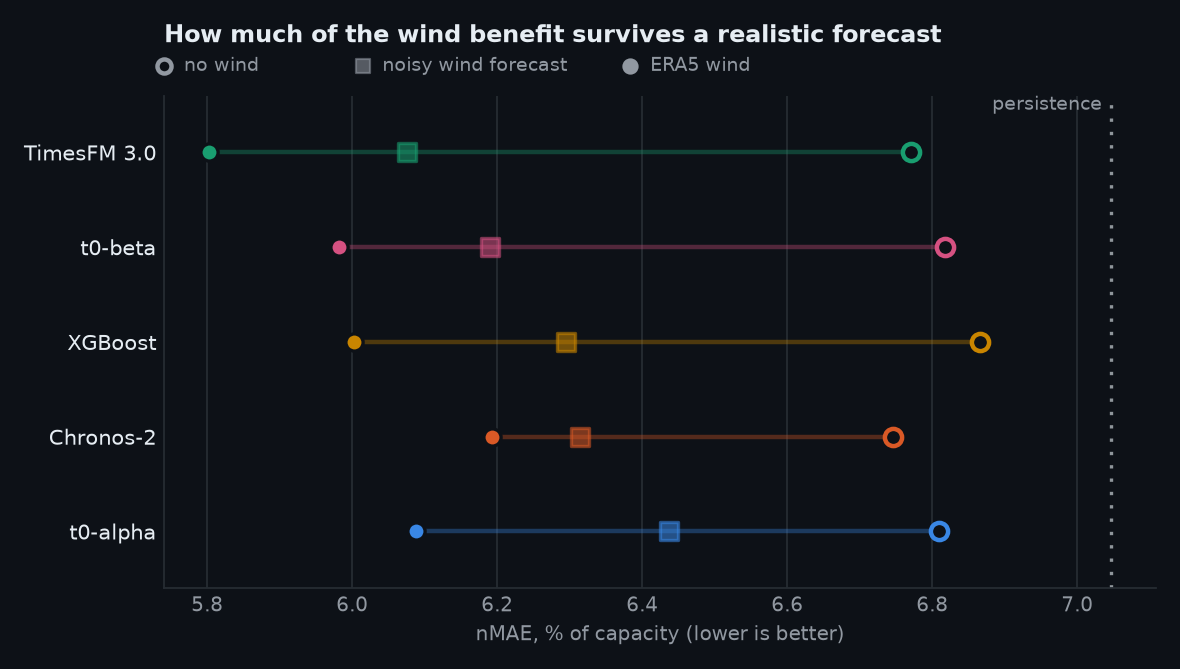
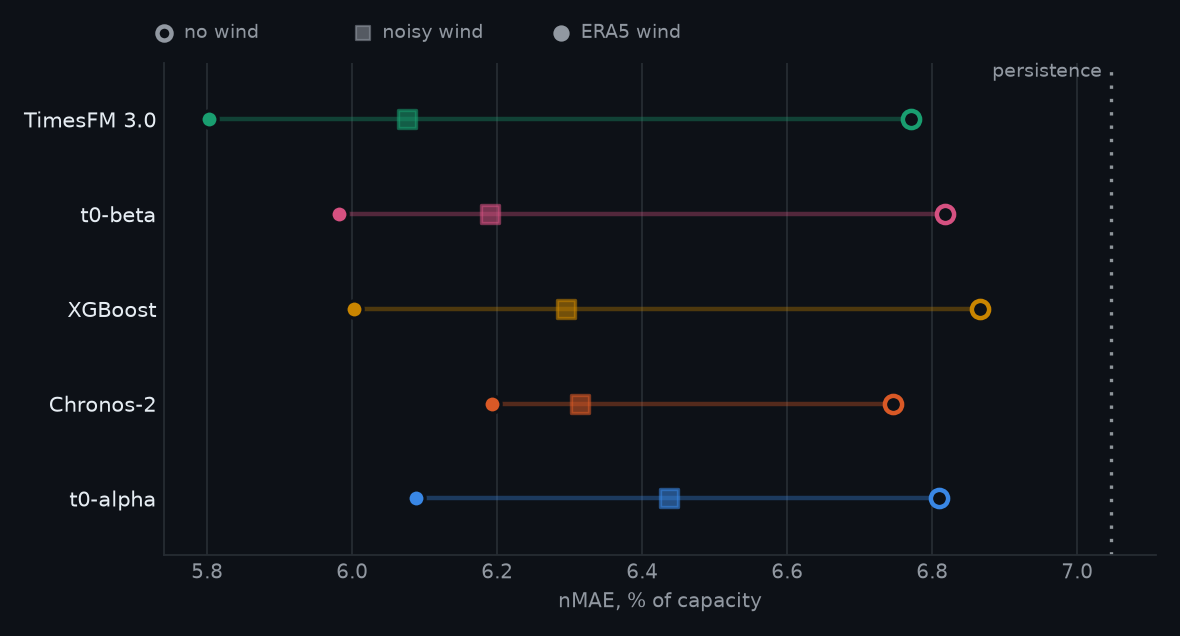
Simplify the README and chart titles

diff --git a/windbench/figures.py b/windbench/figures.py
@@ -80,7 +80,7 @@ def lead_time(m, th, theme):
     # setup A: the models are statistically indistinguishable, so show their range as one band
     a = np.stack([skill(fid) for fid, _, _ in FAMILIES])
     ax.fill_between(steps, a.min(0), a.max(0), color=th["muted"], alpha=0.22, linewidth=0)
-    ax.text(4.3, a.max(0)[3] + 0.8, "all five models, past power only", fontsize=8.5, color=th["muted"])
+    ax.text(4.3, a.max(0)[3] + 0.8, "all models, past power only", fontsize=8.5, color=th["muted"])
     labels = []
     for fid, lab, key in FAMILIES:
         y = skill(fid + FUT_SUFFIX)
@@ -94,23 +94,14 @@ def lead_time(m, th, theme):
     ax.set_ylim(lo_y, hi_y)
     ax.set_yticks(np.arange(-5, hi_y, 5))
     end_labels(ax, labels, th, 16, gap_frac=0.055)
-    ax.annotate("power curve:\nwind only, no recent power", xy=(10.5, pc[9]), xytext=(11.2, -5.4), fontsize=8,
+    ax.annotate("power curve (wind only)", xy=(10.5, pc[9]), xytext=(11.2, -5.4), fontsize=8,
                 color=th["muted"], va="center",
                 arrowprops=dict(arrowstyle="-", color=th["muted"], linewidth=0.8))
     ax.set_xticks(STEP_TICKS, STEP_LABELS)
     ax.set_xlim(1, 16)
     ax.yaxis.set_major_formatter(matplotlib.ticker.FuncFormatter(lambda v, _: f"{v:+.0f}%" if v else "0%"))
-    ax.set_xlabel("how far ahead the forecast is", color=th["muted"], fontsize=9)
-    ax.set_ylabel("how much lower the error is than persistence", color=th["muted"], fontsize=9)
-    finals = [skill(fid + FUT_SUFFIX)[-1] for fid, _, _ in FAMILIES]
-    fig.text(ax.get_position().x0, 0.99,
-             f"Past power alone barely beats persistence; a wind forecast adds "
-             f"{min(finals):.0f} to {max(finals):.0f}% at 4 hours",
-             fontsize=11, color=th["ink"], fontweight="bold", va="top")
-    fig.text(ax.get_position().x0, 0.93, "Coloured lines: each model with the wind speed for the next 4 hours. "
-             "Grey band: the range of all five models without it. Higher is better.",
-             fontsize=9, color=th["muted"], va="top")
-    fig.subplots_adjust(top=0.85)
+    ax.set_xlabel("lead time", color=th["muted"], fontsize=9)
+    ax.set_ylabel("improvement over persistence", color=th["muted"], fontsize=9)
     save(fig, "lead_time", theme)
 
 
@@ -131,21 +122,11 @@ def wind_gain(m, th, theme):
     ax.set_ylim(-5, max(finals) + 3)
     ax.set_yticks(np.arange(0, max(finals) + 3, 5))
     end_labels(ax, labels, th, 16)
-    ax.annotate("15 min ahead: the latest measured\npower already says almost everything",
-                xy=(1.1, 1), xytext=(1.6, 12.5), fontsize=8.5, color=th["muted"], va="center",
-                arrowprops=dict(arrowstyle="-", color=th["muted"], linewidth=0.8,
-                                connectionstyle="angle3,angleA=0,angleB=80"))
     ax.set_xticks(STEP_TICKS, STEP_LABELS)
     ax.set_xlim(1, 16)
     ax.yaxis.set_major_formatter(matplotlib.ticker.FuncFormatter(lambda v, _: f"{v:.0f}%"))
-    ax.set_xlabel("how far ahead the forecast is", color=th["muted"], fontsize=9)
-    ax.set_ylabel("error removed by the wind forecast", color=th["muted"], fontsize=9)
-    fig.text(ax.get_position().x0, 0.99,
-             f"A wind forecast barely helps at 15 minutes, but cuts error by {min(finals):.0f} to "
-             f"{max(finals):.0f}% at 4 hours", fontsize=11.5, color=th["ink"], fontweight="bold", va="top")
-    fig.text(ax.get_position().x0, 0.925, "Each model with the wind speed for the next 4 hours, compared with "
-             "the same model using past power only. Higher is better.", fontsize=9, color=th["muted"], va="top")
-    fig.subplots_adjust(top=0.84)
+    ax.set_xlabel("lead time", color=th["muted"], fontsize=9)
+    ax.set_ylabel("error reduction from the wind forecast", color=th["muted"], fontsize=9)
     save(fig, "wind_gain", theme)
 
 
@@ -168,12 +149,10 @@ def noisy_wind(m, th, theme):
                 ha="right", fontsize=8.5, color=th["muted"])
     ax.set_yticks(range(len(rows)), [r[0] for r in reversed(rows)], color=th["ink"], fontsize=9.5)
     ax.set_ylim(-0.6, len(rows) - 0.4)
-    ax.set_xlabel("nMAE, % of capacity (lower is better)", color=th["muted"], fontsize=9)
-    ax.set_title("How much of the wind benefit survives a realistic forecast", loc="left", fontsize=11,
-                 color=th["ink"], fontweight="bold", pad=24)
+    ax.set_xlabel("nMAE, % of capacity", color=th["muted"], fontsize=9)
     for x, label, kw in [(0.0, "no wind", dict(facecolor=th["bg"], edgecolor=th["muted"], linewidth=2)),
-                         (0.2, "noisy wind forecast", dict(marker="s", color=th["muted"], alpha=0.55)),
-                         (0.47, "ERA5 wind", dict(color=th["muted"]))]:
+                         (0.2, "noisy wind", dict(marker="s", color=th["muted"], alpha=0.55)),
+                         (0.4, "ERA5 wind", dict(color=th["muted"]))]:
         ax.scatter([x], [1.06], s=40, transform=ax.transAxes, clip_on=False, **kw)
         ax.text(x + 0.02, 1.06, label, transform=ax.transAxes, va="center", fontsize=8.5, color=th["muted"])
     save(fig, "noisy_wind", theme)
@@ -210,22 +189,21 @@ def example_day(ex, th, theme, fids=EXAMPLE_FAMILIES):
         for h in range(0, 24, 4):
             ax.axvline(day + pd.Timedelta(hours=h), color=th["grid"], linewidth=1)
         ax.set_title(f"{lab} + future wind", loc="left", fontsize=10, color=th[mkey], fontweight="bold", pad=6)
-        ax.set_title(f"this day: {100 * np.mean(errs) / cap:.1f}% nMAE", loc="right", fontsize=8.5,
+        ax.set_title(f"nMAE {100 * np.mean(errs) / cap:.1f}%", loc="right", fontsize=8.5,
                      color=th["muted"], pad=6)
         ax.set_ylim(0, cap)
         ax.set_ylabel("output, MW", color=th["muted"], fontsize=9)
     ax.xaxis.set_major_formatter(matplotlib.dates.DateFormatter("%H:%M"))
-    fig.text(axes[0].get_position().x0, 0.965, f"Six real time runs on {ex['day']}, each issued at a grey line",
-             fontsize=11, color=th["ink"], fontweight="bold")
     handles = [plt.Line2D([], [], color=th["ink"], linewidth=1.8),
                plt.Line2D([], [], color=th["muted"], linewidth=2),
                plt.Rectangle((0, 0), 1, 1, color=th["muted"], alpha=0.25, linewidth=0),
-               plt.Line2D([], [], color=th["pers"], linestyle=(0, (1, 3)), linewidth=1.5)]
-    leg = axes[-1].legend(handles, ["actual output", "forecast median", "80% band", "persistence"],
-                          loc="upper left", bbox_to_anchor=(0, -0.14), frameon=False, fontsize=8.5, ncol=4)
+               plt.Line2D([], [], color=th["pers"], linestyle=(0, (1, 3)), linewidth=1.5),
+               plt.Line2D([], [], color=th["grid"], linewidth=1.5)]
+    leg = axes[-1].legend(handles, ["actual output", "forecast median", "80% band", "persistence", "forecast issued"],
+                          loc="upper left", bbox_to_anchor=(0, -0.14), frameon=False, fontsize=8.5, ncol=5)
     for t in leg.get_texts():
         t.set_color(th["muted"])
-    fig.subplots_adjust(hspace=0.28, top=0.9)
+    fig.subplots_adjust(hspace=0.28)
     save(fig, "example_day", theme)
 
 

diff --git a/README.md b/README.md
@@ -1,65 +1,79 @@
 # WindBench
 
-**Can time series foundation models replace a wind farm's real time power forecast?**
+A benchmark of time series foundation models for short term wind power forecasting on a real wind farm.
 
-WindBench compares four zero shot time series foundation models (t0-alpha, t0-beta, Chronos-2 and TimesFM 3.0) with a gradient boosted model trained on the plant's own history (XGBoost) and two simple baselines, on a real wind farm, run the way Indian real time scheduling works: every 4 hours, forecast the next 16 blocks of 15 minutes.
+Four foundation models (t0-alpha, t0-beta, Chronos-2 and TimesFM 3.0), used zero shot, are compared with an XGBoost model trained on the plant's own history and with two simple baselines. Every 4 hours each model forecasts the next 16 blocks of 15 minutes, the schedule used for real time wind scheduling in India.
 
-Everything runs on a laptop. The full benchmark (tuning, 18 model variants, 2,189 forecast runs each) takes about an hour on an Apple M5.
+**Interactive report:** [likith-17052004.github.io/to-alpha-wind-power-benchmarks](https://likith-17052004.github.io/to-alpha-wind-power-benchmarks/)
 
-**Interactive report:** [likith-17052004.github.io/to-alpha-wind-power-benchmarks](https://likith-17052004.github.io/to-alpha-wind-power-benchmarks/) (or open [`docs/index.html`](docs/index.html) locally) with every metric, a lead time explorer, pairwise significance tests and a day of real time runs.
-
-<picture>
-  <source media="(prefers-color-scheme: dark)" srcset="docs/figures/lead_time_dark.png">
-  <img alt="How much lower each model's error is than persistence, from 15 minutes to 4 hours ahead: all models stay within a few percent of persistence on past power alone, and reach 17 to 24 percent better at 4 hours with a wind forecast" src="docs/figures/lead_time_light.png">
-</picture>
-
-## Key findings
-
-1. **With past power alone, nothing meaningfully beats persistence.** Every model, foundation or trained, improves on holding the last value flat by only 2.6 to 4.3 percent, and within that group most differences are not statistically significant.
-2. **Knowing the wind over the next 4 hours is what matters.** Adding it cuts every model's error by 0.55 to 0.97 percentage points of capacity, and the gain grows with lead time.
-3. **Zero shot foundation models match a model trained on the plant.** With future wind, TimesFM 3.0 is the most accurate model (5.80% nMAE). t0-beta comes second (5.98%), level with XGBoost trained on the plant (6.00%) and significantly better than its predecessor t0-alpha (6.09%).
-4. **t0-beta is the most robust deployable model.** With a realistic, noisy wind forecast it keeps 75% of its wind gain (6.19%), ahead of XGBoost (6.30%) and Chronos-2 (6.31%), while t0-alpha keeps only about half (6.44%). It also fixes t0-alpha's weaker first step: 2.63% at 15 minutes against 2.81%.
-5. **None of them is ready to replace an operational forecast as is.** The best models still miss by about 7.3% of capacity on average at 4 hours ahead, and large errors come from real weather ramps that no model anticipates.
-
-## Results
-
-<picture>
-  <source media="(prefers-color-scheme: dark)" srcset="docs/figures/wind_gain_dark.png">
-  <img alt="Share of each model's error removed by a wind forecast, from 15 minutes to 4 hours ahead: near zero at 15 minutes, 11 to 20 percent at 4 hours" src="docs/figures/wind_gain_light.png">
-</picture>
-
-ENGIE La Haute Borne wind farm (4 turbines, 8.2 MW), test year 2015, one run every 4 hours, 2,189 runs per model. nMAE is the mean absolute error of the median forecast as a percentage of installed capacity; skill is the reduction in that error versus persistence.
+## Setup
 
 <table>
-  <thead>
-    <tr><th>Setup</th><th>Model</th><th>nMAE %</th><th>Skill vs persistence</th><th>nMAE at 15 min</th><th>nMAE at 4 h</th><th>ms per run</th></tr>
-  </thead>
   <tbody>
-    <tr><td rowspan="6">B: past power and future wind</td><td>TimesFM 3.0 (zero shot)</td><td><b>5.80</b></td><td><b>17.7%</b></td><td><b>2.63</b></td><td>7.37</td><td>34</td></tr>
-    <tr><td>t0-beta (zero shot)</td><td>5.98</td><td>15.1%</td><td><b>2.63</b></td><td>7.48</td><td>104</td></tr>
-    <tr><td>XGBoost (trained on the plant)</td><td>6.00</td><td>14.8%</td><td>2.87</td><td><b>7.31</b></td><td>8</td></tr>
-    <tr><td>t0-alpha (zero shot)</td><td>6.09</td><td>13.6%</td><td>2.81</td><td>7.68</td><td>96</td></tr>
-    <tr><td>Chronos-2 (zero shot)</td><td>6.19</td><td>12.1%</td><td>2.75</td><td>8.02</td><td>41</td></tr>
-    <tr><td>Power curve (baseline)</td><td>7.70</td><td>minus 9.2%</td><td>7.52</td><td>7.59</td><td>0</td></tr>
-    <tr><td rowspan="6">A: past power only</td><td>Chronos-2 (zero shot)</td><td><b>6.75</b></td><td><b>4.3%</b></td><td>2.78</td><td><b>9.03</b></td><td>44</td></tr>
-    <tr><td>TimesFM 3.0 (zero shot)</td><td>6.77</td><td>3.9%</td><td><b>2.68</b></td><td>9.06</td><td>90</td></tr>
-    <tr><td>t0-alpha (zero shot)</td><td>6.81</td><td>3.4%</td><td>2.72</td><td>9.10</td><td>25</td></tr>
-    <tr><td>t0-beta (zero shot)</td><td>6.82</td><td>3.3%</td><td>2.67</td><td>9.21</td><td>77</td></tr>
-    <tr><td>XGBoost (trained on the plant)</td><td>6.87</td><td>2.6%</td><td>2.84</td><td>9.10</td><td>7</td></tr>
-    <tr><td>Persistence (baseline)</td><td>7.05</td><td>0%</td><td>2.72</td><td>9.62</td><td>0</td></tr>
+    <tr><td><b>Wind farm</b></td><td>ENGIE La Haute Borne, France: 4 turbines, 8.2 MW</td></tr>
+    <tr><td><b>Test period</b></td><td>2015, one forecast every 4 hours (2,189 forecasts per model)</td></tr>
+    <tr><td><b>Forecast</b></td><td>the next 16 blocks of 15 minutes, from 15 minutes to 4 hours ahead</td></tr>
+    <tr><td><b>Setup A</b></td><td>the model sees the plant's past power output only</td></tr>
+    <tr><td><b>Setup B</b></td><td>past power output plus the wind speed for the next 4 hours (ERA5, standing in for a wind forecast)</td></tr>
+    <tr><td><b>Metric</b></td><td>nMAE: mean absolute error as a percentage of installed capacity (lower is better)</td></tr>
+    <tr><td><b>Baselines</b></td><td>persistence (repeat the last measured value) and a power curve (wind speed converted to power)</td></tr>
   </tbody>
 </table>
 
-**With a realistic wind forecast** (setup B with the wind degraded by timing, level and drift errors):
+## Results
+
+### Overall accuracy
+
+<table>
+  <thead>
+    <tr><th>Setup</th><th>Model</th><th>nMAE %</th><th>Improvement over persistence</th><th>nMAE at 15 min</th><th>nMAE at 4 h</th><th>ms per forecast</th></tr>
+  </thead>
+  <tbody>
+    <tr><td rowspan="6">B: past power and future wind</td><td>TimesFM 3.0</td><td><b>5.80</b></td><td><b>17.7%</b></td><td><b>2.63</b></td><td>7.37</td><td>34</td></tr>
+    <tr><td>t0-beta</td><td>5.98</td><td>15.1%</td><td><b>2.63</b></td><td>7.48</td><td>104</td></tr>
+    <tr><td>XGBoost (trained on the plant)</td><td>6.00</td><td>14.8%</td><td>2.87</td><td><b>7.31</b></td><td>8</td></tr>
+    <tr><td>t0-alpha</td><td>6.09</td><td>13.6%</td><td>2.81</td><td>7.68</td><td>96</td></tr>
+    <tr><td>Chronos-2</td><td>6.19</td><td>12.1%</td><td>2.75</td><td>8.02</td><td>41</td></tr>
+    <tr><td>Power curve</td><td>7.70</td><td>minus 9.2%</td><td>7.52</td><td>7.59</td><td>0</td></tr>
+    <tr><td rowspan="6">A: past power only</td><td>Chronos-2</td><td><b>6.75</b></td><td><b>4.3%</b></td><td>2.78</td><td><b>9.03</b></td><td>44</td></tr>
+    <tr><td>TimesFM 3.0</td><td>6.77</td><td>3.9%</td><td><b>2.68</b></td><td>9.06</td><td>90</td></tr>
+    <tr><td>t0-alpha</td><td>6.81</td><td>3.4%</td><td>2.72</td><td>9.10</td><td>25</td></tr>
+    <tr><td>t0-beta</td><td>6.82</td><td>3.3%</td><td>2.67</td><td>9.21</td><td>77</td></tr>
+    <tr><td>XGBoost (trained on the plant)</td><td>6.87</td><td>2.6%</td><td>2.84</td><td>9.10</td><td>7</td></tr>
+    <tr><td>Persistence</td><td>7.05</td><td>0%</td><td>2.72</td><td>9.62</td><td>0</td></tr>
+  </tbody>
+</table>
+
+### Accuracy by lead time
+
+Improvement over persistence at each lead time. Coloured lines are setup B; the grey band is the range of all models in setup A.
+
+<picture>
+  <source media="(prefers-color-scheme: dark)" srcset="docs/figures/lead_time_dark.png">
+  <img alt="Improvement over persistence from 15 minutes to 4 hours ahead, per model with the wind forecast, and the range of all models without it" src="docs/figures/lead_time_light.png">
+</picture>
+
+### Effect of the wind forecast
+
+How much of each model's error the wind forecast removes, comparing setup B with setup A for the same model.
+
+<picture>
+  <source media="(prefers-color-scheme: dark)" srcset="docs/figures/wind_gain_dark.png">
+  <img alt="Error reduction from the wind forecast per model, from 15 minutes to 4 hours ahead" src="docs/figures/wind_gain_light.png">
+</picture>
+
+### With a realistic wind forecast
+
+ERA5 is closer to the truth than a real forecast, so setup B was repeated with the wind degraded by timing, level and drift errors.
 
 <picture>
   <source media="(prefers-color-scheme: dark)" srcset="docs/figures/noisy_wind_dark.png">
-  <img alt="Error of each model with no wind, a noisy wind forecast and ERA5 wind" src="docs/figures/noisy_wind_light.png">
+  <img alt="nMAE per model with no wind, a noisy wind forecast and ERA5 wind" src="docs/figures/noisy_wind_light.png">
 </picture>
 
 <table>
   <thead>
-    <tr><th>Model</th><th>A: no wind</th><th>B: noisy wind</th><th>B: ERA5 wind</th><th>Share of the wind gain kept</th></tr>
+    <tr><th>Model</th><th>No wind</th><th>Noisy wind</th><th>ERA5 wind</th><th>Wind benefit kept</th></tr>
   </thead>
   <tbody>
     <tr><td>TimesFM 3.0</td><td>6.77</td><td><b>6.08</b></td><td>5.80</td><td>72%</td></tr>
@@ -70,50 +84,51 @@ ENGIE La Haute Borne wind farm (4 turbines, 8.2 MW), test year 2015, one run eve
   </tbody>
 </table>
 
-**What a real time run looks like.** Each 4 hourly run of t0-alpha (top) and t0-beta (bottom) with future wind starts from the last measured block (open circle) and forecasts the next 4 hours with an 80% band. On this day t0-beta follows the morning ramp that t0-alpha misses (13.4% against 15.4% nMAE for the day), but both miss the sharpest drops.
+### Example day
+
+The six forecasts of 1 April 2015 for t0-alpha and t0-beta in setup B. Each forecast starts from the last measured value (open circle).
 
 <picture>
   <source media="(prefers-color-scheme: dark)" srcset="docs/figures/example_day_dark.png">
-  <img alt="Six consecutive 4 hourly runs of t0-alpha and t0-beta over the actual output on 1 April 2015" src="docs/figures/example_day_light.png">
+  <img alt="Six consecutive forecasts of t0-alpha and t0-beta over the actual output on 1 April 2015" src="docs/figures/example_day_light.png">
 </picture>
 
-Excluding the 4.4% of blocks affected by turbine outages or curtailment lowers every error by about 0.04 points and leaves the ranking unchanged. The interactive report adds error at every step from 15 minutes to 4 hours, a pairwise significance matrix, the tuning choices and a day of real time runs.
+## Key findings
 
-## How the benchmark works
+1. **Past power alone is not enough.** In setup A every model is only 2.6 to 4.3% better than persistence, and the differences between models are mostly not statistically significant.
+2. **The wind forecast makes the difference.** It has almost no effect at 15 minutes but removes 11 to 20% of each model's error at 4 hours.
+3. **Zero shot models match a model trained on the plant.** In setup B, TimesFM 3.0 is the most accurate (5.80%). t0-beta (5.98%) and XGBoost (6.00%) are level, and t0-beta is significantly better than t0-alpha (6.09%).
+4. **t0-beta holds up best among the commercially usable models.** With the noisy wind forecast it reaches 6.19%, against 6.30% for XGBoost and 6.31% for Chronos-2.
+5. **None of them is ready to replace an operational forecast.** At 4 hours ahead the best models still miss by about 7.3% of capacity, and sudden ramps are missed by every model.
 
-**Schedule.** A forecast is issued at 00, 04, 08, 12, 16 and 20 UTC. Each run sees the plant's actual output up to the moment it is issued, including the 16 blocks measured since the previous run, and predicts the next 16 blocks of 15 minutes. Errors are scored per block, as a percentage of installed capacity, similar to how Indian deviation settlement measures wind deviations.
+## Method
 
-**Input setups.**
-
-1. **A: past power only.** The plant's own output history and nothing else.
-2. **B: past power and future wind.** The same history plus the wind speed over the next 4 hours. ERA5 reanalysis at 100 m stands in for the wind forecast a plant would receive.
-3. **B with noisy wind.** A sensitivity test in which ERA5 is degraded into something closer to an operational forecast: per run a timing error of up to one hour, a level bias and an error that drifts over the horizon. Every model sees the identical noisy series, and XGBoost is trained on equally noisy wind.
+**Schedule.** Forecasts are issued at 00, 04, 08, 12, 16 and 20 UTC. Each forecast uses the actual output up to the moment it is issued, including the 16 blocks measured since the previous forecast.
 
 **Models.**
 
 <table>
-  <thead><tr><th>Model</th><th>Kind</th><th>Size</th><th>Weights license</th></tr></thead>
+  <thead><tr><th>Model</th><th>Type</th><th>Size</th><th>Weights license</th></tr></thead>
   <tbody>
-    <tr><td><a href="https://huggingface.co/theforecastingcompany/t0-alpha">t0-alpha</a> (The Forecasting Company)</td><td>zero shot foundation model</td><td>102M</td><td>Apache 2.0</td></tr>
-    <tr><td><a href="https://huggingface.co/theforecastingcompany/t0-beta">t0-beta</a> (The Forecasting Company)</td><td>zero shot foundation model, successor to t0-alpha</td><td>256M</td><td>Apache 2.0</td></tr>
-    <tr><td><a href="https://huggingface.co/amazon/chronos-2">Chronos-2</a> (Amazon)</td><td>zero shot foundation model</td><td>120M</td><td>Apache 2.0</td></tr>
-    <tr><td><a href="https://huggingface.co/google/timesfm-3.0-pytorch">TimesFM 3.0</a> (Google)</td><td>zero shot foundation model</td><td>330M</td><td>TimesFM Non Commercial License</td></tr>
-    <tr><td>XGBoost</td><td>trained on the plant's 2014 history</td><td>400 trees</td><td>Apache 2.0</td></tr>
-    <tr><td>Persistence</td><td>last value held flat</td><td></td><td></td></tr>
-    <tr><td>Power curve</td><td>ERA5 wind mapped to power, fitted on 2014</td><td></td><td></td></tr>
+    <tr><td><a href="https://huggingface.co/theforecastingcompany/t0-alpha">t0-alpha</a> (The Forecasting Company)</td><td>foundation model, zero shot</td><td>102M</td><td>Apache 2.0</td></tr>
+    <tr><td><a href="https://huggingface.co/theforecastingcompany/t0-beta">t0-beta</a> (The Forecasting Company)</td><td>foundation model, zero shot</td><td>256M</td><td>Apache 2.0</td></tr>
+    <tr><td><a href="https://huggingface.co/amazon/chronos-2">Chronos-2</a> (Amazon)</td><td>foundation model, zero shot</td><td>120M</td><td>Apache 2.0</td></tr>
+    <tr><td><a href="https://huggingface.co/google/timesfm-3.0-pytorch">TimesFM 3.0</a> (Google)</td><td>foundation model, zero shot</td><td>330M</td><td>TimesFM Non Commercial License</td></tr>
+    <tr><td>XGBoost</td><td>trained on the plant's 2014 data</td><td>400 trees</td><td>Apache 2.0</td></tr>
+    <tr><td>Persistence</td><td>repeats the last measured value</td><td></td><td></td></tr>
+    <tr><td>Power curve</td><td>wind speed to power, fitted on 2014</td><td></td><td></td></tr>
   </tbody>
 </table>
 
-**Fairness.** Every model gets the same test runs, the same inputs within a setup and the same scoring. Each model also gets the same validation budget on October to December 2014, and the 2015 test year is never used to choose anything:
+**Fair comparison.** All models get the same forecasts, the same inputs within a setup and the same scoring. Each model was tuned on October to December 2014, and the 2015 test year was never used to choose anything. The foundation models chose their history length (512 to 4,096 blocks) and whether to receive the time of day. XGBoost predicts the change from the last measured value and uses no day of year feature.
 
-1. The foundation models choose their history length (512, 1,024, 2,048 or 4,096 blocks) and whether to receive the time of day, which XGBoost always has, as a known future input.
-2. XGBoost's design was chosen on the same split. It predicts the change from the last observed block, so it starts from the latest actual value, and it leaves out day of year, which with a single training year only memorises that year's weather.
+**Realistic wind forecast.** For each forecast the ERA5 wind is shifted by up to one hour, scaled by a random level error and given an error that grows over the 4 hours. Every model sees the same degraded series, and XGBoost is trained on equally degraded wind.
 
-**Statistics.** Confidence intervals come from a bootstrap over whole days, paired across models, so every comparison is made on the same resampled days. The probabilistic score (nCRPS) and the 80% interval coverage are computed from the nine forecast deciles.
+**Statistics.** Confidence intervals and significance tests use a bootstrap over whole days, paired across models. Excluding the 4.4% of blocks with turbine outages or curtailment changes every error by about 0.04 points and does not change the ranking.
 
-## Quick start
+## Running the benchmark
 
-Requires Python 3.10 or newer and about 4 GB of disk for the model weights. On an Apple Silicon Mac the foundation models run on the GPU through MPS; CUDA and CPU also work.
+Requires Python 3.10 or newer and about 4 GB of disk for the model weights. On Apple Silicon the models run on the GPU; CUDA and CPU also work.
 
 ```bash
 git clone https://github.com/likith-17052004/to-alpha-wind-power-benchmarks.git
@@ -124,42 +139,38 @@ pip install -r requirements.txt
 python -m windbench all
 ```
 
-`all` runs the six steps below in order. They can also be run one at a time:
+`all` runs these steps in order:
 
 <table>
   <thead><tr><th>Command</th><th>What it does</th><th>Time on an Apple M5</th></tr></thead>
   <tbody>
-    <tr><td><code>python -m windbench prepare</code></td><td>downloads the ENGIE data (37 MB) and builds the 15 minute series</td><td>under a minute</td></tr>
-    <tr><td><code>python -m windbench tune</code></td><td>picks history length and time of day per foundation model on the validation window</td><td>about 25 minutes</td></tr>
-    <tr><td><code>python -m windbench backtest</code></td><td>runs all 18 model variants over the 2015 test year</td><td>about 30 minutes</td></tr>
-    <tr><td><code>python -m windbench evaluate</code></td><td>scores the forecasts, bootstraps confidence intervals and pairwise tests</td><td>about a minute</td></tr>
-    <tr><td><code>python -m windbench report</code></td><td>builds <code>results/report.html</code> and <code>docs/index.html</code></td><td>seconds</td></tr>
-    <tr><td><code>python -m windbench figures</code></td><td>renders the README charts into <code>docs/figures</code></td><td>seconds</td></tr>
+    <tr><td><code>python -m windbench prepare</code></td><td>downloads the data and builds the 15 minute series</td><td>under a minute</td></tr>
+    <tr><td><code>python -m windbench tune</code></td><td>tunes the foundation models on 2014</td><td>about 25 minutes</td></tr>
+    <tr><td><code>python -m windbench backtest</code></td><td>runs all models over 2015</td><td>about 30 minutes</td></tr>
+    <tr><td><code>python -m windbench evaluate</code></td><td>computes the metrics and significance tests</td><td>about a minute</td></tr>
+    <tr><td><code>python -m windbench report</code></td><td>builds the interactive report</td><td>seconds</td></tr>
+    <tr><td><code>python -m windbench figures</code></td><td>draws the charts in this README</td><td>seconds</td></tr>
   </tbody>
 </table>
 
-`tune` also takes `--models`, which re-tunes only those foundation models and keeps the saved choices of the others. Useful backtest options: `--models` runs a subset (for example `--models persistence "t0-alpha + future wind"`), `--append` replaces only those models in the existing results, and `--quick 24` runs only the first 24 forecasts as a smoke test. Set `WINDBENCH_RESULTS` to write results to another folder. The code structure is described in [`windbench/README.md`](windbench/README.md).
-
-The first run downloads the model weights from Hugging Face. Your results can differ from the committed ones by about 0.00001 MW because of floating point differences between devices.
+Command options and the code layout are described in [`windbench/README.md`](windbench/README.md).
 
 ## Limitations
 
-1. **One plant, one test year.** An 8.2 MW inland site in France in 2015. The ranking may not carry over to other sites, climates or schedules.
-2. **Possible pretraining exposure.** The dataset ships with a widely used open source library, so it may be part of some foundation models' training data. That would flatter the foundation models, not XGBoost. Only data from an unseen plant rules this out.
-3. **ERA5 is not a forecast.** It is a reanalysis of what actually happened, so setup B is an optimistic upper bound. The noisy wind test narrows the gap but is not a substitute for archived operational forecasts.
-4. **Zero shot only.** The foundation models are not fine tuned on the plant, which is where they would usually gain most.
-5. **TimesFM 3.0 cannot be deployed commercially.** Its weights are licensed for non commercial use only; it is included as a research reference.
+1. **One wind farm and one year.** Results may differ for other sites, climates or schedules.
+2. **Public data.** This dataset is widely available, so it may be part of some foundation models' training data.
+3. **ERA5 is not a forecast.** It describes what actually happened, so setup B is optimistic. The noisy wind test only approximates a real forecast.
+4. **No fine tuning.** The foundation models are used as released, without training on the plant.
+5. **TimesFM 3.0 is for non commercial use only**, so it cannot be deployed in production.
 
 ## Data and licenses
 
-The wind farm data is the ENGIE La Haute Borne dataset, published by ENGIE under the French Open Licence 2.0 (Etalab) and redistributed in the example data of NREL's [OpenOA](https://github.com/NatLabRockies/OpenOA). It is downloaded at run time and not stored in this repository.
+The data is the ENGIE La Haute Borne dataset, published by ENGIE under the French Open Licence 2.0 (Etalab) and distributed with NREL's [OpenOA](https://github.com/NatLabRockies/OpenOA). It is downloaded when the benchmark runs and is not stored in this repository.
 
-Model weights are downloaded from Hugging Face and remain under their own licenses: t0-alpha, t0-beta and Chronos-2 under Apache 2.0, TimesFM 3.0 under the TimesFM Non Commercial License. The forecasts in `results/` were produced for non commercial research and benchmarking.
+Model weights keep their own licenses: Apache 2.0 for t0-alpha, t0-beta and Chronos-2, and the TimesFM Non Commercial License for TimesFM 3.0.
 
-## License
-
-The code is released under the [MIT License](LICENSE). Data and model weights keep their own licenses, listed above.
+The code is released under the [MIT License](LICENSE).
 
 ## Acknowledgements
 
-Thanks to ENGIE for opening the La Haute Borne data, to the OpenOA maintainers for keeping it available, and to The Forecasting Company, Amazon and Google for releasing their models.
+Thanks to ENGIE for publishing the La Haute Borne data, to the OpenOA maintainers, and to The Forecasting Company, Amazon and Google for releasing their models.

diff --git a/windbench/README.md b/windbench/README.md
@@ -1,6 +1,6 @@
 # Code structure
 
-The benchmark is a small Python package. Every step is run through one command line entry point, `python -m windbench <step>`, described in the [main README](../README.md#quick-start).
+The benchmark is a small Python package. Every step is run through one command line entry point, `python -m windbench <step>`, described in the [main README](../README.md#running-the-benchmark).
 
 <table>
   <thead><tr><th>Path</th><th>Contents</th></tr></thead>
@@ -21,5 +21,17 @@ The benchmark is a small Python package. Every step is run through one command l
     <tr><td><code>../docs/figures/</code></td><td>the charts shown in the main README</td></tr>
   </tbody>
 </table>
+
+## Command options
+
+1. `python -m windbench tune --models t0-beta` tunes only the named foundation models and keeps the saved choices of the others.
+2. `python -m windbench backtest --models persistence "t0-alpha + future wind"` runs only the named model variants. Variant names are the model name alone for setup A, with ` + future wind` for setup B and with ` + noisy wind` for the realistic wind test.
+3. `--append` replaces only those variants in the existing results instead of starting over.
+4. `--quick 24` runs only the first 24 forecasts, as a quick check that everything works.
+5. Set the `WINDBENCH_RESULTS` environment variable to write results to another folder.
+
+The first run downloads the model weights from Hugging Face. Results can differ from the committed ones by about 0.00001 MW because of floating point differences between devices.
+
+## Notes
 
 XGBoost is trained in a separate Python process because XGBoost and PyTorch each bundle their own OpenMP runtime, and loading both in one process crashes on macOS.
